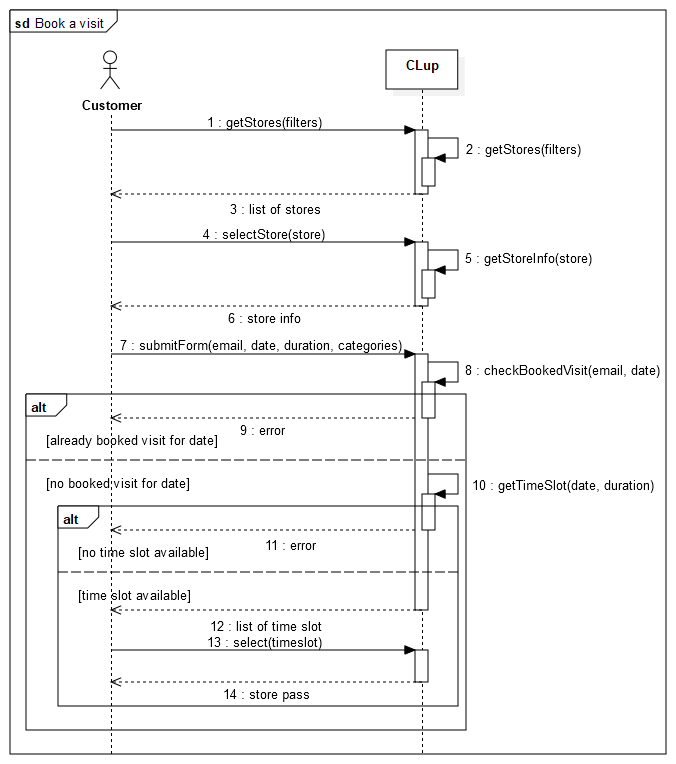
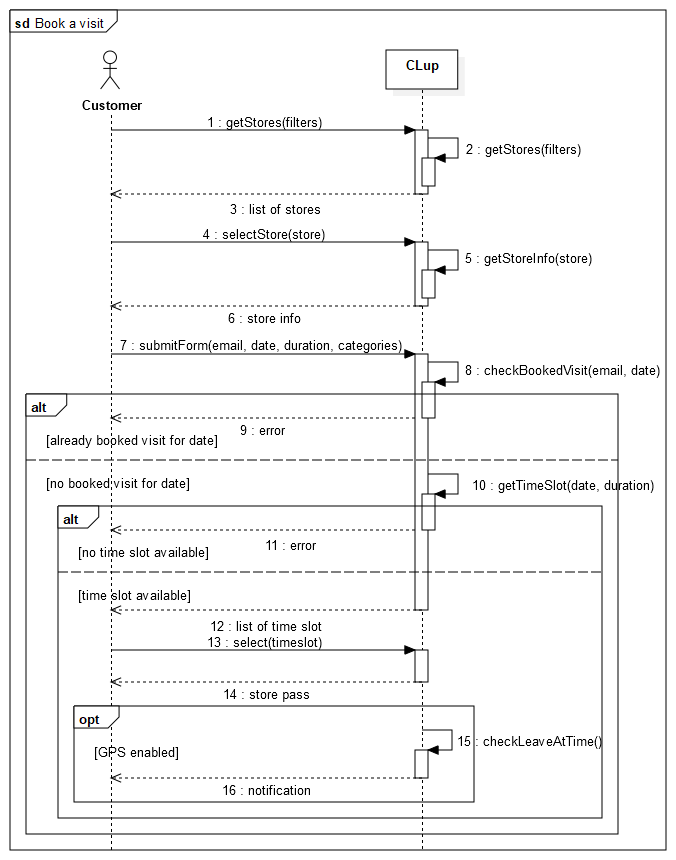
Update sequence diagrams

diff --git a/RASD/chapters/3_specific_requirements.tex b/RASD/chapters/3_specific_requirements.tex
@@ -328,7 +328,7 @@ In this section, it is given a complete description of the functional requiremen
     \subsection{Scenarios}
 		\subsubsection{Scenario 1}
 		John has to go to the supermarket to buy some groceries. Since there is a pandemic going on, he would like to go there as safely as possible.\newline
-		So he opens CLup, chooses his trusted supermarket and takes a queue ticket. The application tells him to go to the supermarket at 12:30 and since John is about ten minutes away from the store it notifies him to leave at 12:20. Once in the store an employee checks the ticket by scanning his QR code and John can enter the supermarket. 
+		So he opens CLup, chooses his trusted supermarket and takes a queue ticket. The application tells him to go to the supermarket at 12:30 and since John is about ten minutes away from the store it notifies him to leave at 12:20. Once in the store an employee checks the ticket by scanning his QR code and John can enter the supermarket.
 		At the exit the cashier will scan again the QR to notify the exit of a customer from the store.
 		\subsubsection{Scenario 2}
 		Tomorrow John is going to go for work near the largest Essecorta in the province. There is no better opportunity to go shopping in his favourite supermarket.\newline
@@ -337,11 +337,11 @@ In this section, it is given a complete description of the functional requiremen
 		John's business appointment near the famous Essecorta has been cancelled. For this reason, he can no longer go to the store.\newline
 		Since John is a model citizen, he decides to delete the booking that he did with CLup. So he opens the app, he goes to the store pass section and deletes the bookings.
 		\subsubsection{Scenario 4}
-		The CLup admin Bob was contacted from the manager of Superal store near the Cathedral to provide CLup to his customers. After asking him some informations about the store, like Name and PEC, the admin fills the form for register a new store on the dashboard. From now on the customers of Superal can enjoy the service. 
+		The CLup admin Bob was contacted from the manager of Superal store near the Cathedral to provide CLup to his customers. After asking him some informations about the store, like Name and PEC, the admin fills the form for register a new store on the dashboard. From now on the customers of Superal can enjoy the service.
 		\subsubsection{Scenario 5}
-		The Superal store has recently expanded due to some renovation works. The manager Alice wants to increase the number of maximum customer inside the store and monitor them.\newline 
-		For doing so, she goes to the CLup dashboard, logs in and increases the maximum cap. From that page she also watches the number of customers inside the store. 
-	
+		The Superal store has recently expanded due to some renovation works. The manager Alice wants to increase the number of maximum customer inside the store and monitor them.\newline
+		For doing so, she goes to the CLup dashboard, logs in and increases the maximum cap. From that page she also watches the number of customers inside the store.
+
 	\clearpage
     \subsection{Use cases description}
     Use cases capture functional requirements of a system from the users' perspective.
@@ -367,12 +367,16 @@ In this section, it is given a complete description of the functional requiremen
 				\begin{enumerate}[label=\roman*.,leftmargin=.5cm,noitemsep,topsep=0pt,before=\vspace{-3mm},after=\vspace{-4mm}]
 					\item The customer selects a store from the home page;
 					\item The customer presses the "Retrieve Ticket" button.
+                    \item If the GPS is enabled, the application notifies the customer when it's time to leave.
 				\end{enumerate} \\
 			\midrule
 			\textbf{Exit conditions} & The customer has retrieved a ticket for the selected store. \\
 			\midrule
-			\textbf{Exceptions} & If the customer has already retrieved a ticket for a store, the system displays an error message telling the customer they cannot get more than one ticket simultaneously. \\
-
+			\textbf{Exceptions} &
+                \begin{itemize}[leftmargin=.4cm,noitemsep,topsep=0pt,before=\vspace{-3mm},after=\vspace{-4mm}]
+                    \item If the customer has already retrieved a ticket for a store, the system displays an error message telling the customer they cannot get more than one ticket simultaneously.
+                    \item If the system fails to retrieve the GPS location, no notification will be shown.
+                \end{itemize} \\
 			\bottomrule
 		\end{tabular}
 		\caption{\textit{Retrieve ticket} use case description.}
@@ -409,6 +413,7 @@ In this section, it is given a complete description of the functional requiremen
     			\item The customer selects the time slot;
                 \item The customer submits the form;
                 \item The system shows to the customer the booked visit.
+                \item If the GPS is enabled, the application notifies the customer when it's time to leave.
     		\end{enumerate} \\
     		\midrule
     		\textbf{Exit conditions} & The customer has retrieved a ticket for the selected store. \\
@@ -417,6 +422,7 @@ In this section, it is given a complete description of the functional requiremen
             \begin{itemize}[leftmargin=.4cm,noitemsep,topsep=0pt,before=\vspace{-3mm},after=\vspace{-4mm}]
                 \item If the customer has already booked a visit to a store in a certain date, the system displays an error message telling the customer it cannot book again for the same day at the same store;
                 \item If the customer selects a date so that there are no more available time slots, the system displays an error message telling the customer to select a different date.
+                \item If the system fails to retrieve the GPS location, no notification will be shown.
             \end{itemize} \\
 
     		\bottomrule
@@ -622,8 +628,8 @@ In this section, it is given a complete description of the functional requiremen
             \ref{req:custNotifyDelete}\\
             \midrule
 
-            \textbf{UC.\ref{uc:retrieveTicket}} & \cmark & \cmark & & \cmark & \cmark & & & \cmark \\
-            \textbf{UC.\ref{uc:bookVisit}} & \cmark & & & & & & & \cmark & & \cmark & \cmark \\
+            \textbf{UC.\ref{uc:retrieveTicket}} & \cmark & \cmark & & \cmark & \cmark & \cmark & & \cmark & \cmark \\
+            \textbf{UC.\ref{uc:bookVisit}} & \cmark & & & & & \cmark & & \cmark & \cmark & \cmark & \cmark \\
             \textbf{UC.\ref{uc:deletePass}} & & & & & & & \cmark & \cmark & & & & \cmark & \cmark \\
             \textbf{UC.\ref{uc:webLogin}} & \\
             \textbf{UC.\ref{uc:registerStore}} & \\
@@ -665,7 +671,7 @@ In this section, it is given a complete description of the functional requiremen
             \textbf{UC.\ref{uc:bookVisit}} &&&&&&&&&&&\\
             \textbf{UC.\ref{uc:deletePass}} &&&&&&&&&&&\\
             \textbf{UC.\ref{uc:webLogin}} & \cmark & & & & & & \cmark & & \cmark & \cmark \\
-            \textbf{UC.\ref{uc:registerStore}} & & & & & & & & & \cmark & \cmark \\
+            \textbf{UC.\ref{uc:registerStore}} & & & & & & & & & & \cmark & \cmark \\
             \textbf{UC.\ref{uc:monitorBookings}} & \cmark & & & \cmark & & \cmark &&&&&\\
             \midrule
             \ref{goal:custHazardSit} &&&&&&&&&&&\\
